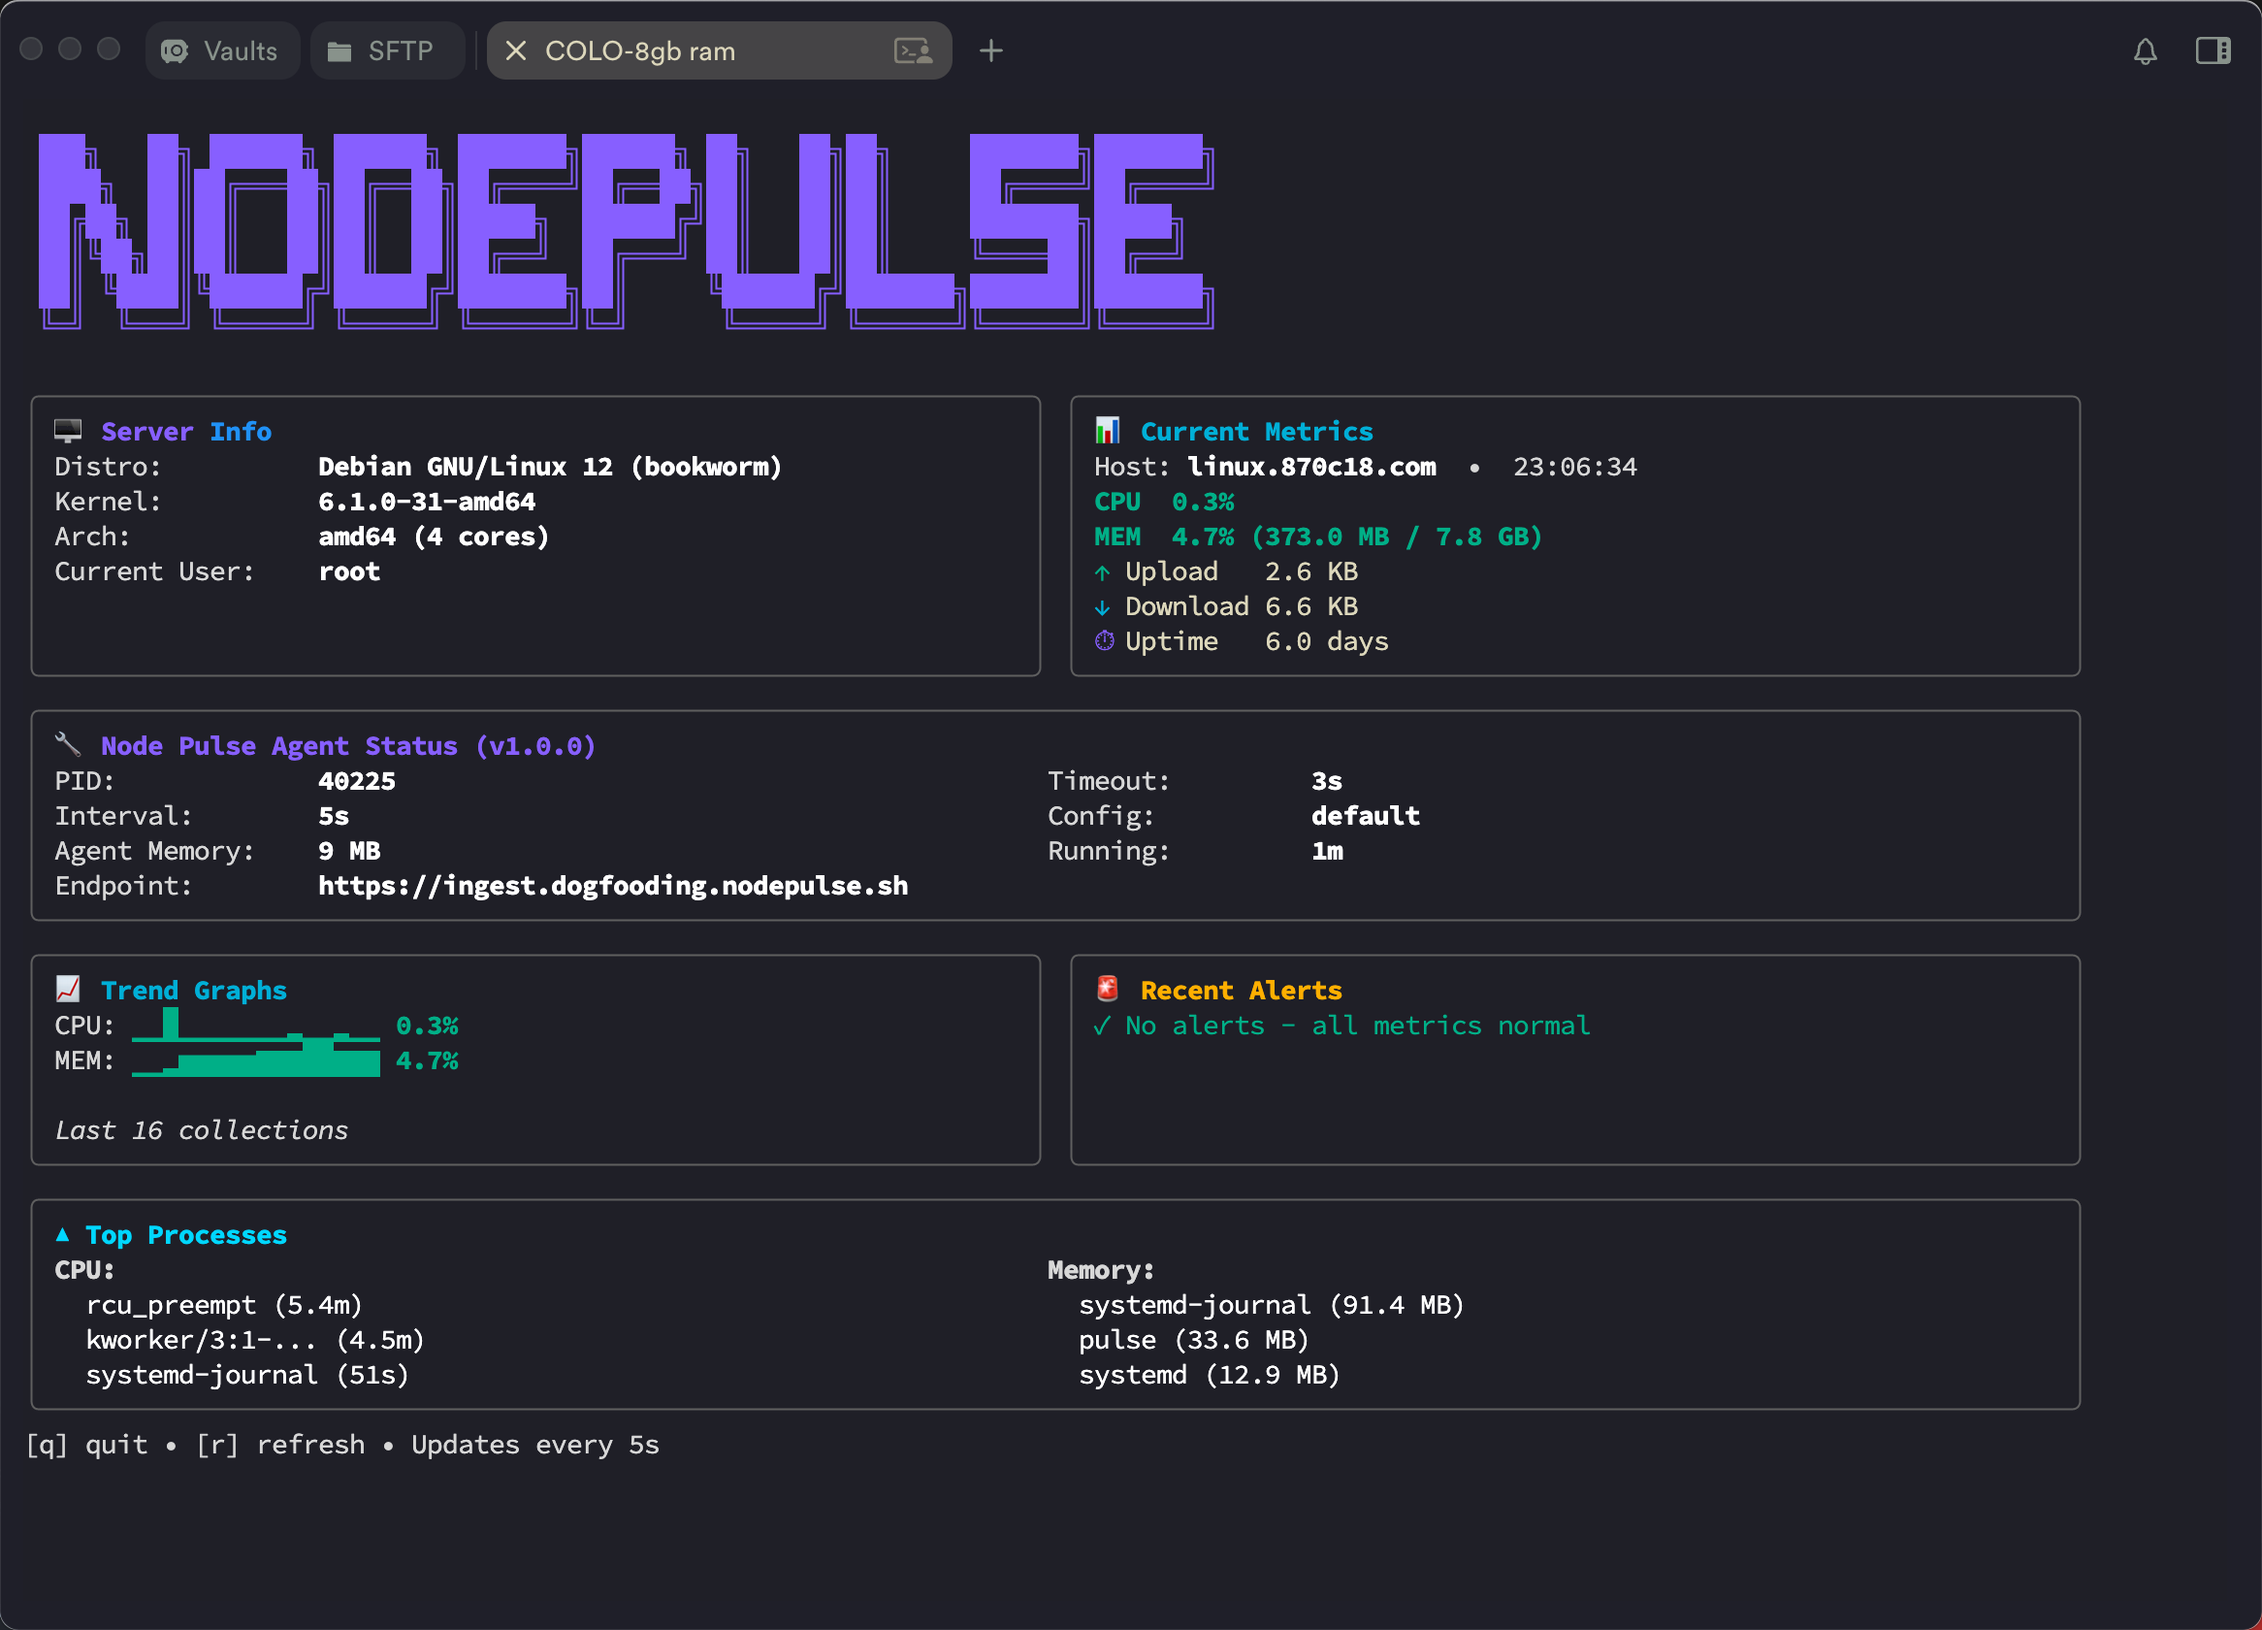
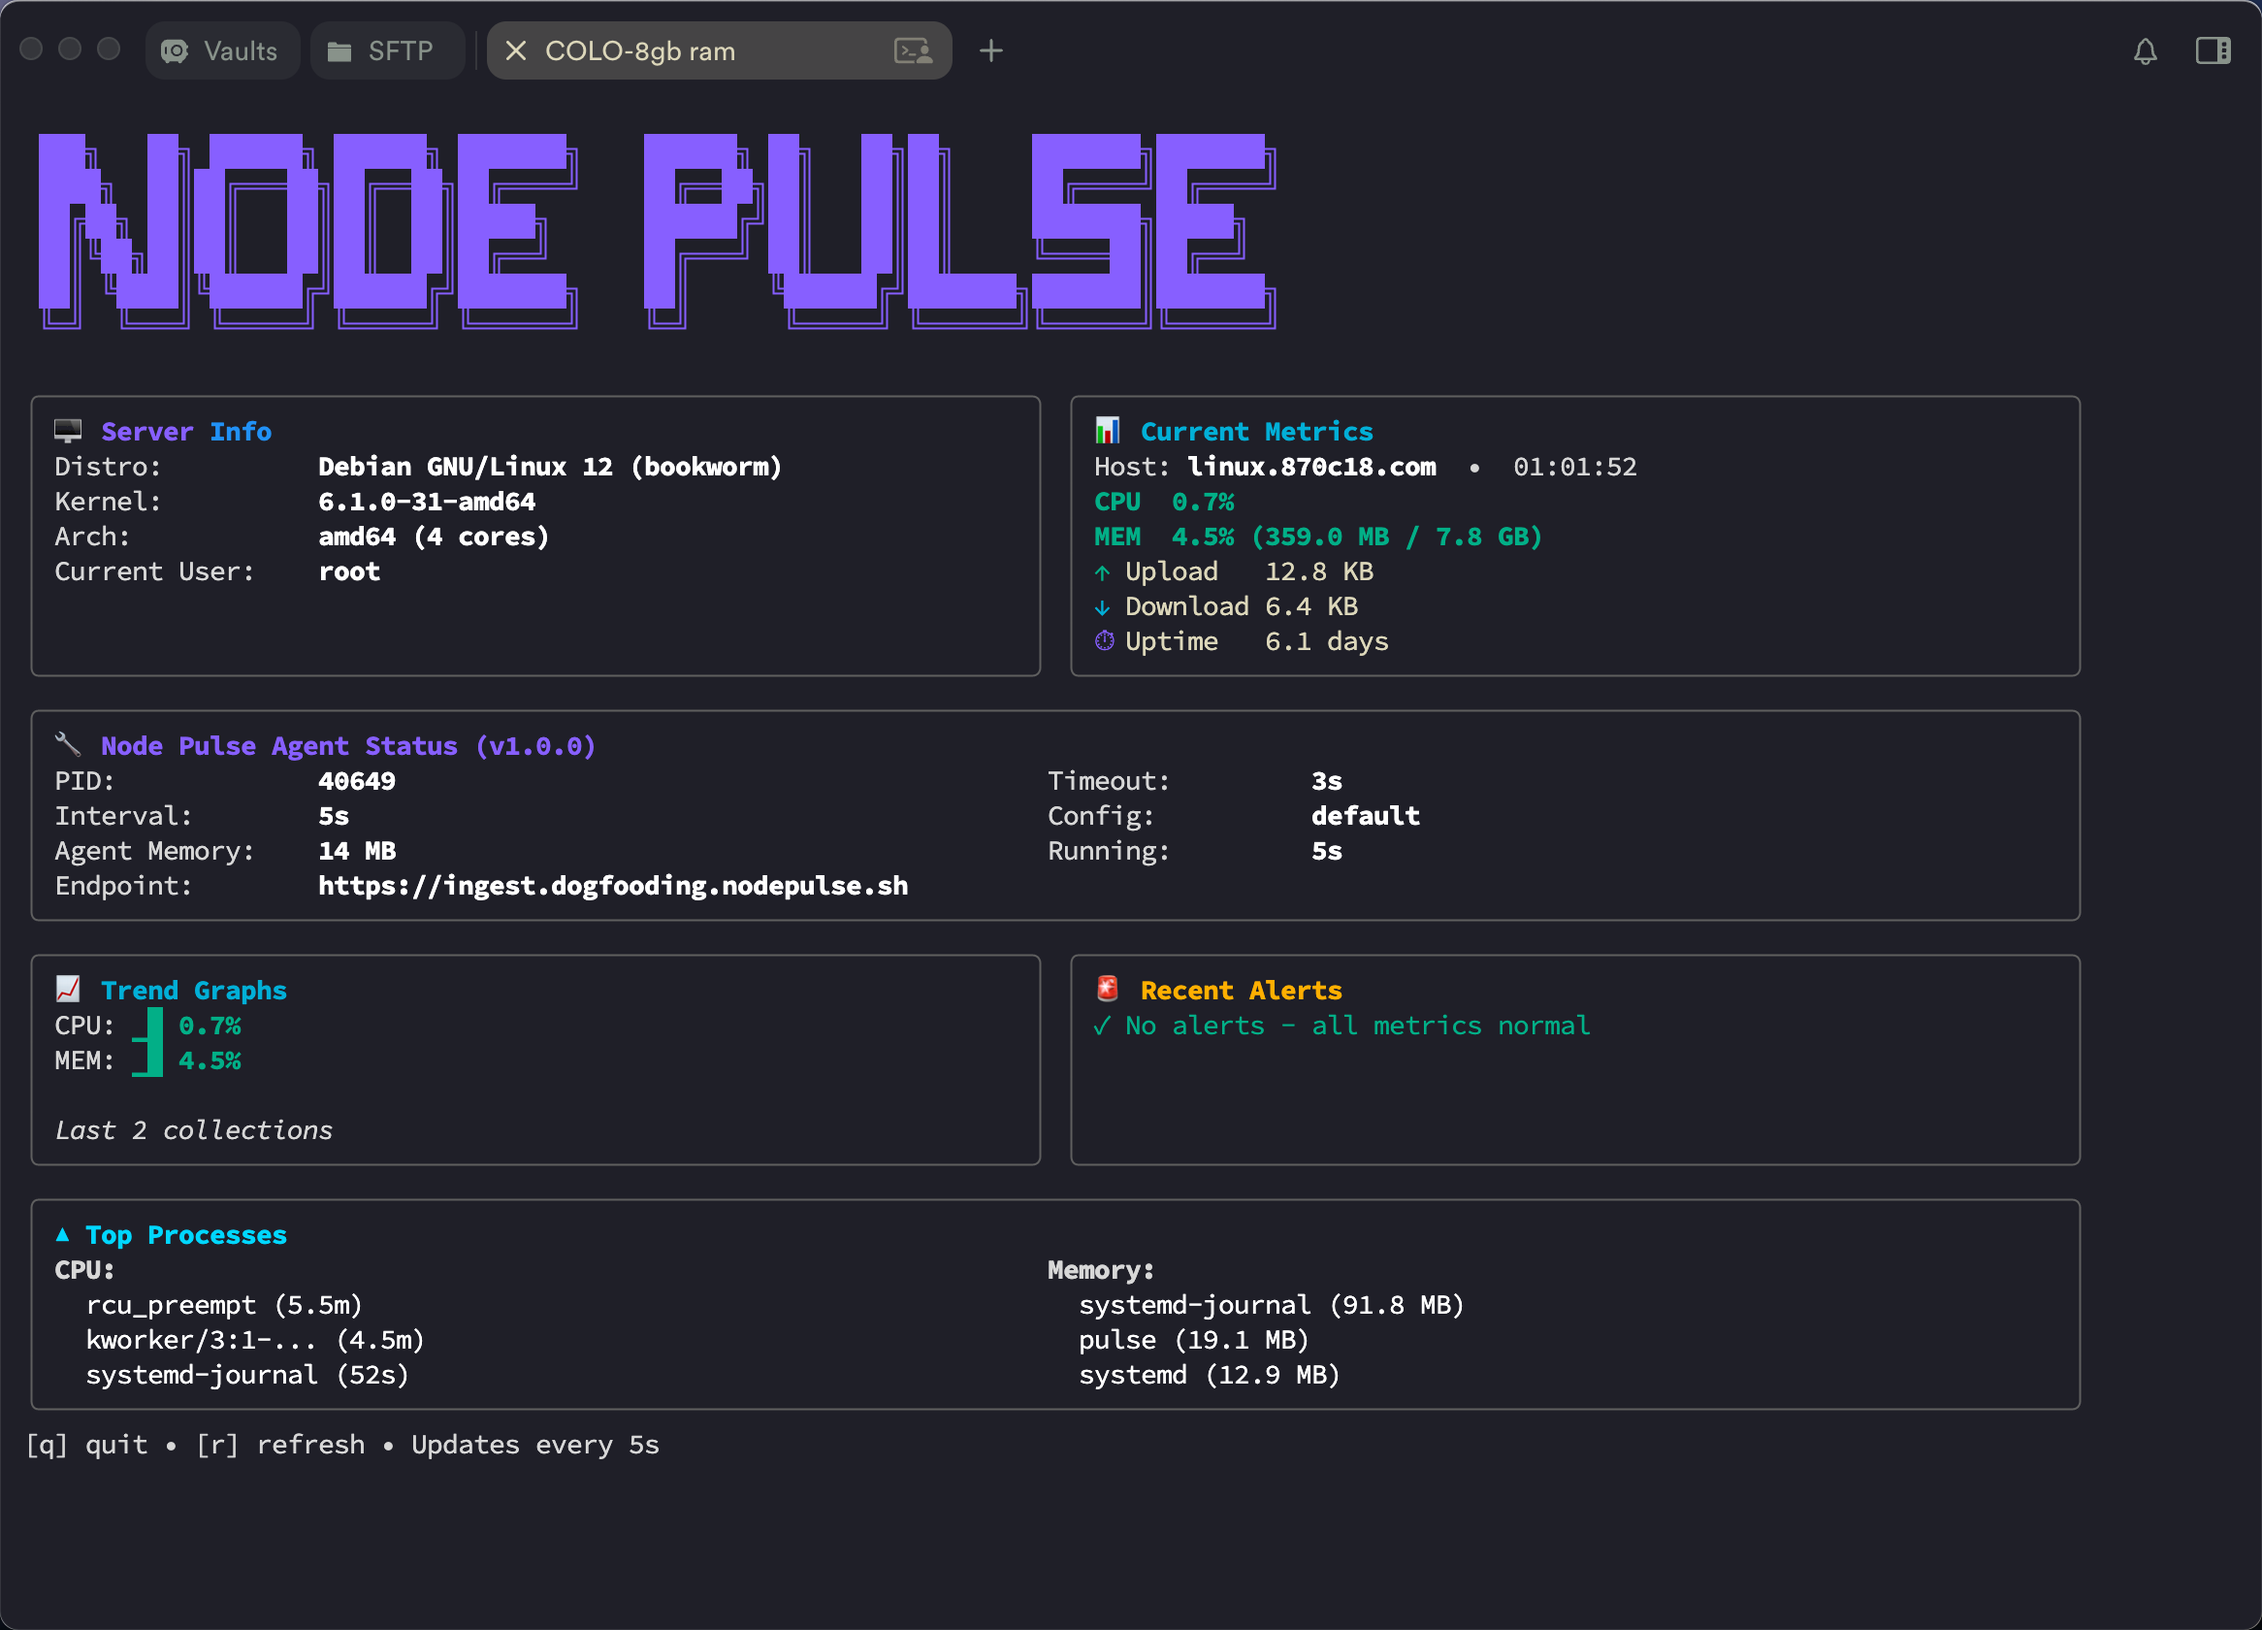
feat: add process metrics collection and integrate into report

diff --git a/internal/metrics/process.go b/internal/metrics/process.go
@@ -1,0 +1,210 @@
+package metrics
+
+import (
+	"fmt"
+	"os"
+	"path/filepath"
+	"sort"
+	"strconv"
+	"strings"
+)
+
+// ProcessMetrics represents top processes by CPU and memory
+type ProcessMetrics struct {
+	TopCPU    []ProcessInfo `json:"top_cpu"`
+	TopMemory []ProcessInfo `json:"top_memory"`
+}
+
+// ProcessInfo represents information about a single process
+type ProcessInfo struct {
+	PID        int     `json:"pid"`
+	Name       string  `json:"name"`
+	CPUTime    float64 `json:"cpu_time"`    // Total CPU time in seconds
+	MemoryMB   float64 `json:"memory_mb"`   // Memory usage in MB
+	MemoryPerc float64 `json:"memory_perc"` // Memory usage as percentage of total
+}
+
+type processData struct {
+	pid     int
+	name    string
+	cpuTime uint64 // Total CPU time in jiffies (utime + stime)
+	memRSS  uint64 // Memory in KB
+}
+
+// CollectProcesses collects top processes by CPU and memory usage
+func CollectProcesses() (*ProcessMetrics, error) {
+	processes, err := readProcessData()
+	if err != nil {
+		return nil, fmt.Errorf("failed to read process data: %w", err)
+	}
+
+	if len(processes) == 0 {
+		return nil, fmt.Errorf("no processes found")
+	}
+
+	// Get total system memory for percentage calculation
+	totalMemKB := getTotalMemoryKB()
+
+	// Get top 10 by CPU
+	topCPU := getTopProcessesByCPU(processes, 10, totalMemKB)
+
+	// Get top 10 by memory
+	topMem := getTopProcessesByMemory(processes, 10, totalMemKB)
+
+	return &ProcessMetrics{
+		TopCPU:    topCPU,
+		TopMemory: topMem,
+	}, nil
+}
+
+// readProcessData reads all process information from /proc
+func readProcessData() ([]processData, error) {
+	processes := []processData{}
+
+	// Read all /proc/[pid] directories
+	entries, err := os.ReadDir("/proc")
+	if err != nil {
+		return nil, err
+	}
+
+	for _, entry := range entries {
+		// Skip if not a directory or not a numeric name (PID)
+		if !entry.IsDir() {
+			continue
+		}
+		pidStr := entry.Name()
+		pid, err := strconv.Atoi(pidStr)
+		if err != nil {
+			continue
+		}
+
+		// Read process name from /proc/[pid]/comm
+		commPath := filepath.Join("/proc", pidStr, "comm")
+		commData, err := os.ReadFile(commPath)
+		if err != nil {
+			continue
+		}
+		name := strings.TrimSpace(string(commData))
+
+		// Read CPU time from /proc/[pid]/stat
+		statPath := filepath.Join("/proc", pidStr, "stat")
+		statData, err := os.ReadFile(statPath)
+		if err != nil {
+			continue
+		}
+
+		// Parse stat file: fields are space-separated
+		// utime is field 14 (index 13), stime is field 15 (index 14)
+		statFields := strings.Fields(string(statData))
+		if len(statFields) < 15 {
+			continue
+		}
+
+		utime, _ := strconv.ParseUint(statFields[13], 10, 64)
+		stime, _ := strconv.ParseUint(statFields[14], 10, 64)
+		cpuTime := utime + stime
+
+		// Read memory from /proc/[pid]/status
+		statusPath := filepath.Join("/proc", pidStr, "status")
+		statusData, err := os.ReadFile(statusPath)
+		if err != nil {
+			continue
+		}
+
+		// Find VmRSS line (resident memory in KB)
+		var memRSS uint64
+		for _, line := range strings.Split(string(statusData), "\n") {
+			if strings.HasPrefix(line, "VmRSS:") {
+				fields := strings.Fields(line)
+				if len(fields) >= 2 {
+					memRSS, _ = strconv.ParseUint(fields[1], 10, 64)
+				}
+				break
+			}
+		}
+
+		processes = append(processes, processData{
+			pid:     pid,
+			name:    name,
+			cpuTime: cpuTime,
+			memRSS:  memRSS,
+		})
+	}
+
+	return processes, nil
+}
+
+// getTopProcessesByCPU returns top N processes sorted by CPU time
+func getTopProcessesByCPU(processes []processData, n int, totalMemKB uint64) []ProcessInfo {
+	// Sort by CPU time (descending)
+	sort.Slice(processes, func(i, j int) bool {
+		return processes[i].cpuTime > processes[j].cpuTime
+	})
+
+	// Get top N
+	result := []ProcessInfo{}
+	for i := 0; i < len(processes) && i < n; i++ {
+		p := processes[i]
+		memPerc := 0.0
+		if totalMemKB > 0 {
+			memPerc = float64(p.memRSS) / float64(totalMemKB) * 100.0
+		}
+		result = append(result, ProcessInfo{
+			PID:        p.pid,
+			Name:       p.name,
+			CPUTime:    float64(p.cpuTime) / 100.0, // Convert jiffies to seconds (100 jiffies = 1 second on most systems)
+			MemoryMB:   float64(p.memRSS) / 1024.0,
+			MemoryPerc: memPerc,
+		})
+	}
+
+	return result
+}
+
+// getTopProcessesByMemory returns top N processes sorted by memory usage
+func getTopProcessesByMemory(processes []processData, n int, totalMemKB uint64) []ProcessInfo {
+	// Sort by memory (descending)
+	sort.Slice(processes, func(i, j int) bool {
+		return processes[i].memRSS > processes[j].memRSS
+	})
+
+	// Get top N
+	result := []ProcessInfo{}
+	for i := 0; i < len(processes) && i < n; i++ {
+		p := processes[i]
+		memPerc := 0.0
+		if totalMemKB > 0 {
+			memPerc = float64(p.memRSS) / float64(totalMemKB) * 100.0
+		}
+		result = append(result, ProcessInfo{
+			PID:        p.pid,
+			Name:       p.name,
+			CPUTime:    float64(p.cpuTime) / 100.0, // Convert jiffies to seconds
+			MemoryMB:   float64(p.memRSS) / 1024.0,
+			MemoryPerc: memPerc,
+		})
+	}
+
+	return result
+}
+
+// getTotalMemoryKB returns total system memory in KB from /proc/meminfo
+func getTotalMemoryKB() uint64 {
+	data, err := os.ReadFile("/proc/meminfo")
+	if err != nil {
+		return 0
+	}
+
+	lines := strings.Split(string(data), "\n")
+	for _, line := range lines {
+		if strings.HasPrefix(line, "MemTotal:") {
+			fields := strings.Fields(line)
+			if len(fields) >= 2 {
+				total, _ := strconv.ParseUint(fields[1], 10, 64)
+				return total
+			}
+		}
+	}
+
+	return 0
+}

diff --git a/cmd/watch.go b/cmd/watch.go
@@ -183,12 +183,12 @@ func (m model) renderDashboard() string {
 
 	// ASCII Art Logo
 	logo := `
- ███╗   ██╗ ██████╗ ██████╗ ███████╗██████╗ ██╗   ██╗██╗     ███████╗███████╗
- ████╗  ██║██╔═══██╗██╔══██╗██╔════╝██╔══██╗██║   ██║██║     ██╔════╝██╔════╝
- ██╔██╗ ██║██║   ██║██║  ██║█████╗  ██████╔╝██║   ██║██║     ███████╗█████╗
- ██║╚██╗██║██║   ██║██║  ██║██╔══╝  ██╔═══╝ ██║   ██║██║     ╚════██║██╔══╝
- ██║ ╚████║╚██████╔╝██████╔╝███████╗██║     ╚██████╔╝███████╗███████║███████╗
- ╚═╝  ╚═══╝ ╚═════╝ ╚═════╝ ╚══════╝╚═╝      ╚═════╝ ╚══════╝╚══════╝╚══════╝`
+ ███╗   ██╗ ██████╗ ██████╗ ███████╗    ██████╗ ██╗   ██╗██╗     ███████╗███████╗
+ ████╗  ██║██╔═══██╗██╔══██╗██╔════╝    ██╔══██╗██║   ██║██║     ██╔════╝██╔════╝
+ ██╔██╗ ██║██║   ██║██║  ██║█████╗      ██████╔╝██║   ██║██║     ███████╗█████╗
+ ██║╚██╗██║██║   ██║██║  ██║██╔══╝      ██╔═══╝ ██║   ██║██║     ╚════██║██╔══╝
+ ██║ ╚████║╚██████╔╝██████╔╝███████╗    ██║     ╚██████╔╝███████╗███████║███████╗
+ ╚═╝  ╚═══╝ ╚═════╝ ╚═════╝ ╚══════╝    ╚═╝      ╚═════╝ ╚══════╝╚══════╝╚══════╝`
 
 	title := lipgloss.NewStyle().
 		Foreground(theme.Primary).

diff --git a/internal/metrics/report.go b/internal/metrics/report.go
@@ -8,14 +8,15 @@ import (
 
 // Report represents the complete metrics report sent to the server
 type Report struct {
-	Timestamp  string          `json:"timestamp"`
-	ServerID   string          `json:"server_id"`
-	Hostname   string          `json:"hostname"`
-	SystemInfo *SystemInfo     `json:"system_info,omitempty"`
-	CPU        *CPUMetrics     `json:"cpu"`
-	Memory     *MemoryMetrics  `json:"memory"`
-	Network    *NetworkMetrics `json:"network"`
-	Uptime     *UptimeMetrics  `json:"uptime"`
+	Timestamp  string           `json:"timestamp"`
+	ServerID   string           `json:"server_id"`
+	Hostname   string           `json:"hostname"`
+	SystemInfo *SystemInfo      `json:"system_info,omitempty"`
+	CPU        *CPUMetrics      `json:"cpu"`
+	Memory     *MemoryMetrics   `json:"memory"`
+	Network    *NetworkMetrics  `json:"network"`
+	Uptime     *UptimeMetrics   `json:"uptime"`
+	Processes  *ProcessMetrics  `json:"processes"`
 }
 
 // Collect gathers all metrics and creates a complete report
@@ -57,6 +58,11 @@ func Collect(serverID string) (*Report, error) {
 
 	if uptime, err := CollectUptime(); err == nil {
 		report.Uptime = uptime
+		allFailed = false
+	}
+
+	if processes, err := CollectProcesses(); err == nil {
+		report.Processes = processes
 		allFailed = false
 	}
 
